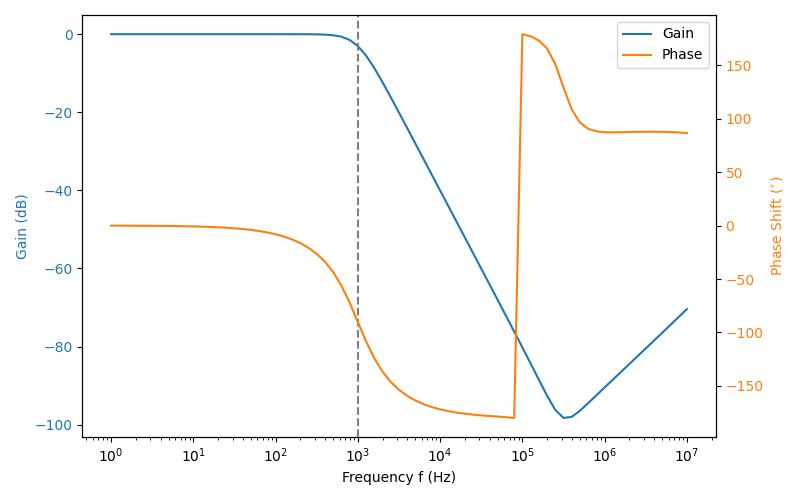
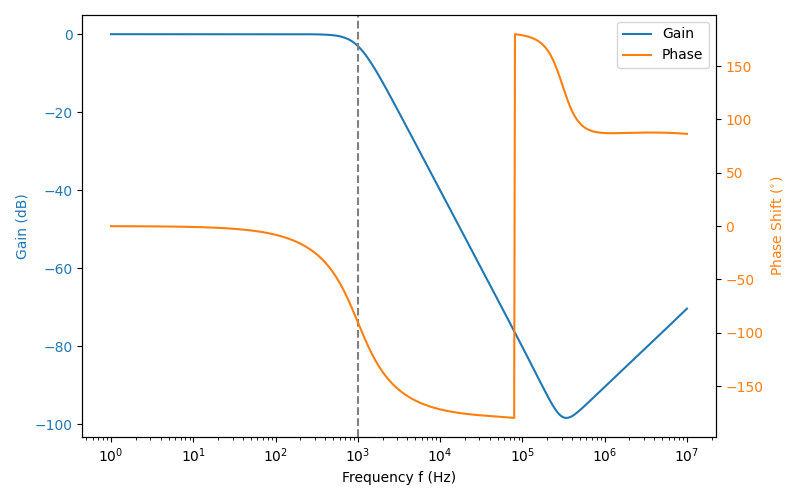
Added a Bessel optimized low-pass Sallen-Key filter simulation schematic and added the results of the comparison plots.

diff --git a/content/electronics/circuit-design/analogue-filters/main.py b/content/electronics/circuit-design/analogue-filters/main.py
@@ -10,6 +10,7 @@ def main():
     create_sallen_key_response_plot(Path('low-pass-sallen-key-chebyshev-3db'))
     create_sallen_key_response_plot(Path('low-pass-sallen-key-butterworth'))
 
+    # Low-Pass Filter Comparison Plots
     config = [
         {
             'data_path': Path('low-pass-sallen-key-chebyshev-3db/sim-results.csv'),
@@ -18,6 +19,10 @@ def main():
         {
             'data_path': Path('low-pass-sallen-key-butterworth/sim-results.csv'),
             'legend': 'Butterworth',
+        },
+        {
+            'data_path': Path('low-pass-sallen-key-bessel/sim-results.csv'),
+            'legend': 'Bessel',
         },
     ]
     create_low_pass_filter_comparison_plots(config)
@@ -142,18 +147,18 @@ def create_low_pass_filter_comparison_plots(config):
     # Low-pass filter comparison plots
 
     data = [ get_freq_mag_phase(config_entry['data_path']) for config_entry in config ]
+    xlim = [1e1, 1e4]
 
     fig, axes = plt.subplots(nrows=1, ncols=2, figsize=(20, 10))
 
     ax = axes[0]
     for idx, config_entry in enumerate(config):
         db_gain = data[idx]['vout_mag']
-        voltage_gain = np.power(10, db_gain/20)
-        ax.plot(data[idx]['freq'], voltage_gain, label=config_entry['legend'])
+        ax.plot(data[idx]['freq'], db_gain, label=config_entry['legend'])
     ax.set_title('Gain Response Of Different Low-Pass Filters\nfc=1kHz')
     ax.set_xlabel('Frequency f (Hz)')
     ax.set_xscale('log')
-    ax.set_xlim([1e1, 1e4])
+    ax.set_xlim(xlim)
     ax.set_ylabel('Gain (dB)')
     ax.axvline(1e3, color='gray', linestyle='--') # Add line at fc
     ax.legend()
@@ -164,12 +169,63 @@ def create_low_pass_filter_comparison_plots(config):
     ax.set_title('Phase Response Of Different Low-Pass Filters\nfc=1kHz')
     ax.set_xlabel('Frequency f (Hz)')
     ax.set_xscale('log')
-    ax.set_ylabel('Gain (dB)')
+    ax.set_xlim(xlim)
+    ax.set_ylabel('Phase Shift ($^\circ$)')
     ax.axvline(1e3, color='gray', linestyle='--') # Add line at fc
     ax.legend()
 
     plt.tight_layout()
-    plot_path = 'low-pass-filter-optimization-comparison.png'
+    plot_path = 'low-pass-filter-optimization-comparison-gain-db.png'
+    plt.savefig(plot_path)
+
+
+    # Separate file for V/V gain
+    fig, axes = plt.subplots(nrows=1, ncols=2, figsize=(20, 10))
+
+    ax = axes[0]
+    for idx, config_entry in enumerate(config):
+        db_gain = data[idx]['vout_mag']
+        voltage_gain = np.power(10, db_gain/20)
+        ax.plot(data[idx]['freq'], voltage_gain, label=config_entry['legend'])
+    ax.set_title('Gain Response Of Different Low-Pass Filters\nfc=1kHz')
+    ax.set_xlabel('Frequency f (Hz)')
+    ax.set_xscale('log')
+    ax.set_xlim(xlim)
+    ax.set_ylabel('Gain (V/V)')
+    ax.axvline(1e3, color='gray', linestyle='--') # Add line at fc
+    ax.legend()
+
+    ax = axes[1]
+    for idx, config_entry in enumerate(config):
+        ax.plot(data[idx]['freq'], data[idx]['vout_phase'], label=config_entry['legend'])
+    ax.set_title('Phase Response Of Different Low-Pass Filters\nfc=1kHz')
+    ax.set_xlabel('Frequency f (Hz)')
+    ax.set_xscale('log')
+    ax.set_xlim(xlim)
+    ax.set_ylabel('Phase Shift ($^\circ$)')
+    ax.axvline(1e3, color='gray', linestyle='--') # Add line at fc
+    ax.legend()
+
+    plt.tight_layout()
+    plot_path = 'low-pass-filter-optimization-comparison-gain-vv.png'
+    plt.savefig(plot_path)
+
+    # Plot of phase difference with linear x-axis, helps visualize the linear
+    # response of the Bessel filter
+    fig, axes = plt.subplots(nrows=1, ncols=1, figsize=(5, 5), squeeze=False)
+
+    ax = axes[0][0]
+    for idx, config_entry in enumerate(config):
+        ax.plot(data[idx]['freq'], data[idx]['vout_phase'], label=config_entry['legend'])
+    ax.set_xlabel('Frequency f (Hz)')
+    # ax.set_xscale('log')
+    ax.set_xlim([0, 2e3])
+    ax.set_ylabel('Phase Shift ($^\circ$)')
+    ax.axvline(1e3, color='gray', linestyle='--') # Add line at fc
+    ax.legend()
+
+    plt.tight_layout()
+    plot_path = 'low-pass-filter-optimization-comparison-phase-linear.png'
     plt.savefig(plot_path)
 
 if __name__ == '__main__':

diff --git a/content/electronics/circuit-design/analogue-filters/_index.md b/content/electronics/circuit-design/analogue-filters/_index.md
@@ -263,16 +263,33 @@ It might seem hard to believe, but you can build RC networks which increase the 
 _Filter optimizations_ are specific tunings of filters to maximise a particular characteristic of it's response. Filter optimization directly specifies what the filter coefficients must be.
 
 * **Butterworth** Optimized for the flattest response through the pass-band, at the expense of having a low transition between the pass and stop-band.
-* **Chebyshev**: Designed to have the steepest transition between the pass and stop-band, at the expense of gain ripple in either the pass or stopband (_type 1_ or _type 2_). Also called  Chevyshev, Tschebychev, Tschebyscheff or Tchevysheff, depending on exactly how you translate the original Russian name. There are two types of Chebyshev filters:
+* **Chebyshev**: Designed to have a steep transition between the pass and stop-band, at the expense of gain ripple in either the pass or stopband (_type 1_ or _type 2_). Also called  Chevyshev, Tschebychev, Tschebyscheff or Tchevysheff, depending on exactly how you translate the original Russian name. There are two types of Chebyshev filters:
     * **Type 1:** _Type 1 Chebyshev filters_ (a.k.a. just a _Chebyshev filter_) have ripple in the passband, but no ripple in the stopband.
     * **Type 2:** _Type 2 Chebyshev filters_ (a.k.a. an _inverse Chebyshev filter_) have ripple in the stopband, but no ripple in the passband.
 * **Bessel**: Optimized for linear phase response up to (or down to for high-pass filters) the cutoff frequency `\(f_c\)`, at the expense of a slower transition to the stop-band. This is useful to minimizing the signal distortion (a linear _phase response_ in the frequency domain is a constant _time delay_ in the time domain).
+* **Elliptic:** Designed to have the fastest transition from the passband to the stopband, at the expense of ripple in both of these bands (Chebyshev optimization only produces ripple in one of the bands but is not as fast in the transition). Also called _Cauer_ filters or _Rational Chebyshev_ filters.
+
+The graphs below show the differences in response (bode plots, gain and phase) for these various filter optimizations:
+
+{{% figure src="low-pass-filter-optimization-comparison-gain-db.png" width="700px" caption="A comparison of different filter optimizations. Gain shown in dB." %}}
+
+Sometimes the differences can been visualized better by display the gain as V/V:
+
+{{% figure src="low-pass-filter-optimization-comparison-gain-vv.png" width="700px" caption="A comparison of different filter optimizations. Gain shown in V/V." %}}
+
+The linear phase delay of the Bessel filter is best visualized in the below plot where the phase in plotted on a linear scale rather than a logarithmic:
+
+{{% figure src="low-pass-filter-optimization-comparison-phase-linear.png" width="700px" caption="Phase delay of different filter optimizations, with the frequency plotted on a linear axis rather than a logarithmic axis. This is the best way to visualize the linear phase delay of the Bessel optimization." %}}
 
 ### Chebyshev Optimization
 
 Chebyshev filters with even order numbers (e.g. 2nd order, 4th order, ...) generate ripples above the 0dB line, filters with odd order numbers (e.g. 3rd order, 5th order, ...) generate ripples below the 0dB line.
 
 Because Chebyshev filters have ripple in the pass-band, **their cutoff frequency is usually defined in a completely different way to all other filter optimizations**. Rather than specifying `\(f_c\)` as the -3dB point, the `\(f_c\)` for Chebyshev filters is defined at the point at which the gain leaves the allowed ripple region (i.e. > 0.5dB for a 0.5dB Chebyshev filter, > 3dB for a 3dB Chebyshev filter).
+
+### Bessel Optimization
+
+Commonly used in analogue-crossover circuitry.
 
 ### Filter Coefficient Tables
 
@@ -300,6 +317,15 @@ Because Chebyshev filters have ripple in the pass-band, **their cutoff frequency
 | 2       | 1       | 1.0650    | 1.9305    | 1.000     | 1.30
 | 3       | 1       | 2.7994    | 0.0000    | 0.357     | n/a
 |         | 2       | 0.4300    | 1.2036    | 1.378     | 2.55
+
+#### Bessel Coefficients
+
+| `\(n\)` | `\(i\)` | `\(a_i\)` | `\(b_i\)` | `\(k_i\)` | `\(Q_i\)`
+|---------|---------|-----------|-----------|-----------|----------
+| 1       | 1       | 1.0000    | 0.0000    | 1.000     | n/a
+| 2       | 1       | 1.3617    | 0.6180    | 1.000     | 0.58
+| 3       | 1       | 0.7560    | 0.0000    | 1.323     | n/a
+|         | 2       | 0.9996    | 0.4772    | 1.414     | 0.69
 
 ### 2nd Order Filter Topologies
 
@@ -430,10 +456,6 @@ They are called VCVS filters because the op-amp is used as a voltage amplifier.
 
 {{% figure src="low-pass-vcvs-generic/low-pass-vcvs-generic.svg" width="700px" caption="Schematic of a generic VCVS filter. Note how it is very similar to the Sallen-Key filter, except with the additional resistors R3 and R4 to set a voltage gain other than unity." %}}
 
-## Elliptic Filters (Cauer Filters)
-
-TODO: Add info.
-
 ## Design Tools
 
 ### OKAWA Filter Design and Analysis
@@ -454,7 +476,8 @@ The PSoC microcontroller features an in-built and versatile digital filter block
 * The [Design With Operational Amplifiers And Analog Integrated Circuits by Sergio Franco, Fourth Edition](https://www.mheducation.com/highered/product/design-operational-amplifiers-analog-integrated-circuits-franco/M9780078028168.html) is a great book to purchase if you are interesting in further reading and getting right into the weeds of analogue filter design!
 * [Op Amps For Everyone by Ron Mancini (SLOD006B)](https://web.mit.edu/6.101/www/reference/op_amps_everyone.pdf) has some detailed sections on op-amp filter circuits.
 * [SLOA024B: Analysis of the Sallen-Key Architecture - Application Report, by Texas Instruments](https://www.ti.com/lit/an/sloa024b/sloa024b.pdf) can be used for further reading on the Sallen-Key and VCVS amplifiers (<a href="sloa024b-analysis-of-the-sallen-key-architecture-application-report-texas-instruments.pdf" download>cached local copy</a>).
-* Texas Instruments [Filter Designer](https://www.ti.com/design-resources/design-tools-simulation/filter-designer.html) is a free online tool to design  
+* Texas Instruments [Filter Designer](https://www.ti.com/design-resources/design-tools-simulation/filter-designer.html) is a free online tool to design filters.
+* The Analog Devices [Filter Wizard](https://tools.analog.com/en/filterwizard/) is an alternative to the Texas Instruments version.   
 
 ## References
 
